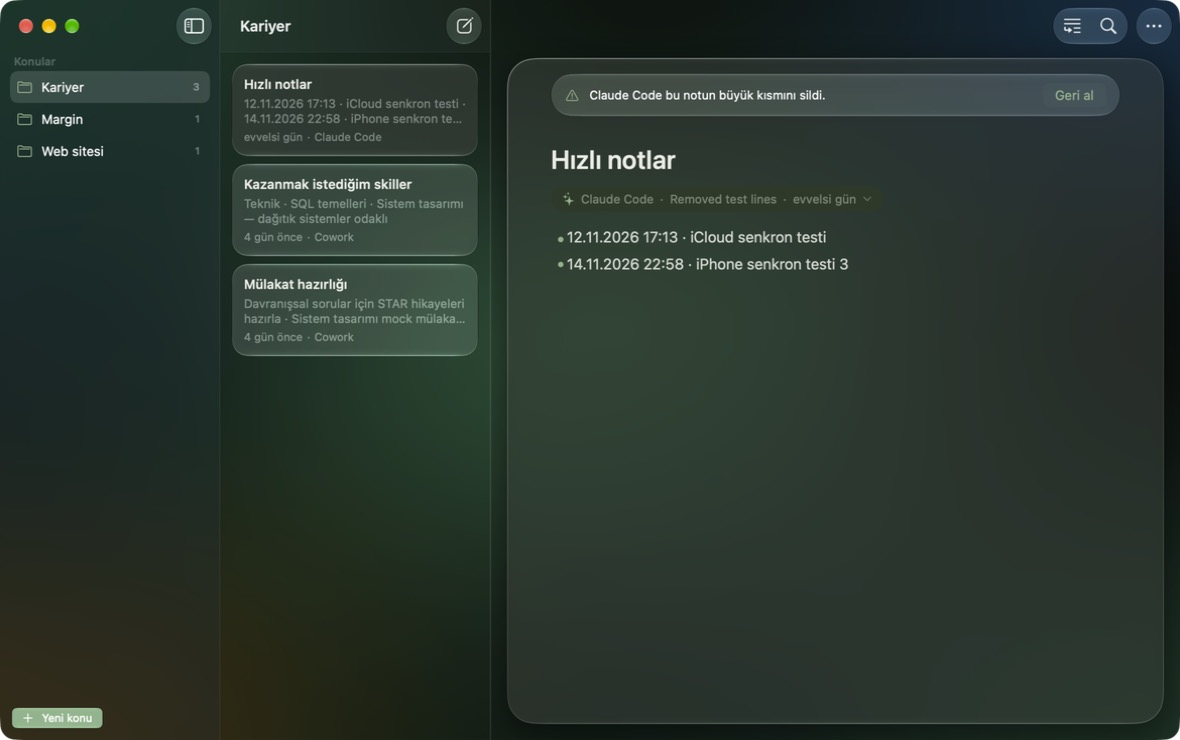
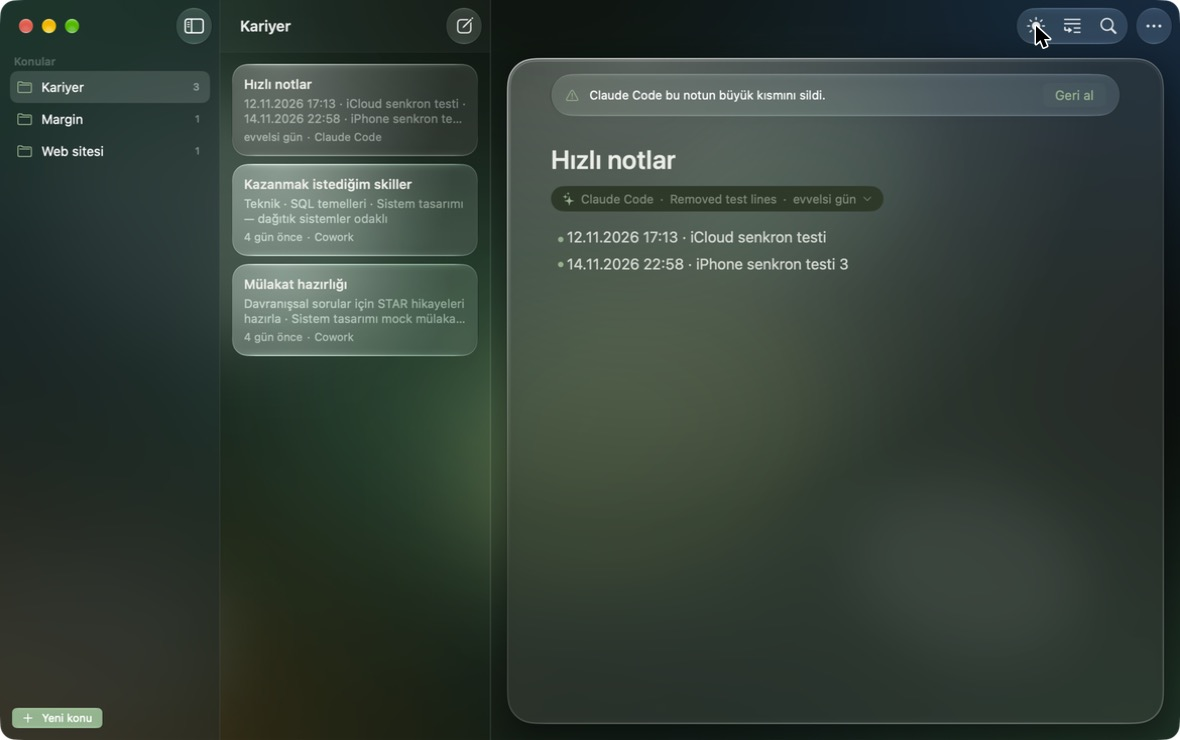
feat: light/dark toggle; stronger glass light (pointer/tilt specular, caustics)
- Sun/moon glass button in the Mac toolbar and iPhone top bar
- Specular sheen under content and a light-following rim on every glass panel;
  follows the pointer on Mac and device tilt on iPhone (static with Reduce Motion)
- Drifting caustic light spots on the backdrop so glass edges visibly refract
- Fix: window stays clear so the opaque ambient backdrop is visible when transparency is off

Changed region(s): [[0.3966, 0.0622, 0.8542, 0.7149], [0.1831, 0.0622, 0.3356, 0.4973], [0.8542, 0.0, 0.9153, 0.0622]]

diff --git a/App/Shared/LightEffects.swift b/App/Shared/LightEffects.swift
@@ -1,0 +1,138 @@
+import SwiftUI
+#if os(iOS)
+import CoreMotion
+#endif
+
+/// Where the "light" sits for glass highlights. On iPhone it follows device tilt; on Mac each panel
+/// follows the pointer while hovered and rests at the top-left otherwise.
+@MainActor @Observable
+final class LightSource {
+    static let shared = LightSource()
+    /// Unit point of the light in panel space (0,0 top-left … 1,1 bottom-right).
+    var point = UnitPoint(x: 0.2, y: 0.0)
+
+    #if os(iOS)
+    private let motion = CMMotionManager()
+    func startTilt() {
+        guard motion.isDeviceMotionAvailable, !motion.isDeviceMotionActive else { return }
+        motion.deviceMotionUpdateInterval = 1 / 30
+        motion.startDeviceMotionUpdates(to: .main) { [weak self] data, _ in
+            guard let g = data?.gravity else { return }
+            // Tilting the phone moves the highlight across the glass.
+            let x = min(max(0.5 + g.x * 0.9, -0.2), 1.2)
+            let y = min(max(0.15 + (g.y + 0.6) * 0.9, -0.2), 1.2)
+            MainActor.assumeIsolated { self?.point = UnitPoint(x: x, y: y) }
+        }
+    }
+    #endif
+}
+
+/// Light position for a panel: pointer while hovered (Mac), else the shared light (tilt on iPhone).
+@MainActor private enum LightPoint {
+    static func resolve(hover: UnitPoint?, reduceMotion: Bool) -> UnitPoint {
+        reduceMotion ? UnitPoint(x: 0.2, y: 0) : (hover ?? LightSource.shared.point)
+    }
+}
+
+/// Broad sheen where light hits the glass; sits under the content.
+struct SpecularSheen<S: InsettableShape>: View {
+    let shape: S
+    var hover: UnitPoint?
+    @Environment(\.colorScheme) private var scheme
+    @Environment(\.accessibilityReduceMotion) private var reduceMotion
+
+    var body: some View {
+        GeometryReader { geo in
+            let p = LightPoint.resolve(hover: hover, reduceMotion: reduceMotion)
+            let dark = scheme == .dark
+            shape.fill(
+                RadialGradient(
+                    colors: [.white.opacity(dark ? 0.20 : 0.65), .white.opacity(0)],
+                    center: p, startRadius: 0, endRadius: max(geo.size.width, geo.size.height) * 0.7)
+            )
+            .blendMode(dark ? .plusLighter : .softLight)
+            .animation(.spring(duration: 0.5), value: hover)
+        }
+        .allowsHitTesting(false)
+    }
+}
+
+/// Bright rim nearest the light plus a thin inner caustic; drawn on top, but only at the edges.
+struct SpecularRim<S: InsettableShape>: View {
+    let shape: S
+    var hover: UnitPoint?
+    @Environment(\.colorScheme) private var scheme
+    @Environment(\.accessibilityReduceMotion) private var reduceMotion
+
+    var body: some View {
+        let p = LightPoint.resolve(hover: hover, reduceMotion: reduceMotion)
+        let opposite = UnitPoint(x: 1 - p.x, y: 1 - p.y)
+        let dark = scheme == .dark
+        ZStack {
+            shape.strokeBorder(
+                LinearGradient(colors: [.white.opacity(dark ? 0.6 : 1), .white.opacity(0.06), .white.opacity(dark ? 0.2 : 0.45)],
+                               startPoint: p, endPoint: opposite),
+                lineWidth: 1.3)
+            shape.inset(by: 2.5).strokeBorder(
+                LinearGradient(colors: [.white.opacity(dark ? 0.28 : 0.6), .clear], startPoint: p, endPoint: .center),
+                lineWidth: 0.8)
+        }
+        .animation(.spring(duration: 0.5), value: hover)
+        .allowsHitTesting(false)
+    }
+}
+
+/// Soft drifting light spots on the backdrop, so glass edges have something to bend.
+struct Caustics: View {
+    @Environment(\.colorScheme) private var scheme
+    @Environment(\.accessibilityReduceMotion) private var reduceMotion
+
+    var body: some View {
+        TimelineView(.animation(minimumInterval: 1 / 20, paused: reduceMotion)) { ctx in
+            let t = reduceMotion ? 0 : ctx.date.timeIntervalSinceReferenceDate
+            GeometryReader { geo in
+                let w = geo.size.width, h = geo.size.height
+                let dark = scheme == .dark
+                let spots: [(Double, Double, Double, Double, Color)] = [
+                    (0.18, 0.22, 0.30, 0.11, .white),
+                    (0.72, 0.18, 0.22, 0.07, dark ? Color(red: 0.55, green: 0.8, blue: 0.6) : .white),
+                    (0.55, 0.62, 0.34, 0.05, dark ? Color(red: 0.9, green: 0.7, blue: 0.35) : Color(red: 1, green: 0.93, blue: 0.75)),
+                    (0.12, 0.82, 0.26, 0.09, dark ? Color(red: 0.4, green: 0.65, blue: 0.85) : .white),
+                    (0.88, 0.78, 0.20, 0.06, .white),
+                ]
+                ForEach(spots.indices, id: \.self) { i in
+                    let s = spots[i]
+                    let x = (s.0 + sin(t * s.3 + Double(i) * 1.7) * 0.08) * w
+                    let y = (s.1 + cos(t * s.3 * 0.8 + Double(i)) * 0.07) * h
+                    let size = s.2 * max(w, h) * (dark ? 1 : 0.7)
+                    Ellipse()
+                        .fill(s.4.opacity(dark ? 0.16 : 0.32))
+                        .frame(width: size, height: size * 0.7)
+                        .rotationEffect(.degrees(sin(t * 0.05 + Double(i)) * 25))
+                        .position(x: x, y: y)
+                        .blur(radius: size * 0.12)
+                }
+            }
+        }
+        .blendMode(scheme == .dark ? .plusLighter : .normal)
+        .allowsHitTesting(false)
+    }
+}
+
+/// Sun / moon glass button that flips between light and dark (Settings still offers "Match system").
+struct AppearanceToggle: View {
+    @AppStorage("appearance") private var appearance: AppearanceChoice = .system
+    @Environment(\.colorScheme) private var scheme
+
+    var body: some View {
+        Button {
+            appearance = scheme == .dark ? .light : .dark
+            Haptics.select()
+        } label: {
+            Label(scheme == .dark ? "Light Mode" : "Dark Mode",
+                  systemImage: scheme == .dark ? "sun.max.fill" : "moon.fill")
+                .contentTransition(.symbolEffect(.replace.downUp))
+        }
+        .help(scheme == .dark ? "Switch to light mode" : "Switch to dark mode")
+    }
+}

diff --git a/App/Shared/AmbientBackground.swift b/App/Shared/AmbientBackground.swift
@@ -15,6 +15,7 @@ struct AmbientBackground: View {
                 let t = reduceMotion ? 0 : context.date.timeIntervalSinceReferenceDate
                 MeshGradient(width: 3, height: 3, points: points(t), colors: colors)
                     .overlay(scheme == .dark ? Color.black.opacity(0.18) : Color.white.opacity(0.0))
+                    .overlay(Caustics())
             }
         }
     }
@@ -56,24 +57,30 @@ private struct GlassPanel: ViewModifier {
     let tint: Color?
     let interactive: Bool
     @Environment(\.colorScheme) private var scheme
+    @State private var hover: UnitPoint?
+    @State private var size: CGSize = .zero
 
     func body(content: Content) -> some View {
         let shape = RoundedRectangle(cornerRadius: cornerRadius, style: .continuous)
         let base: Glass = clear ? .clear : .regular
         var glass: Glass = tint.map { base.tint($0) } ?? base
         if interactive { glass = glass.interactive() }
+        // Layering (back to front): glass → light fill → sheen → content → rim.
         return content
+            .background(SpecularSheen(shape: shape, hover: hover).clipShape(shape))
             .background(shape.fill(Color(palette: Palette.card).opacity(fill)))
             .glassEffect(glass, in: .rect(cornerRadius: cornerRadius))
-            .overlay(
-                // Specular rim: bright on the top-left edge, fading out, like light catching glass.
-                shape.strokeBorder(
-                    LinearGradient(
-                        colors: [.white.opacity(scheme == .dark ? 0.35 : 0.9), .white.opacity(0.05), .white.opacity(scheme == .dark ? 0.12 : 0.35)],
-                        startPoint: .topLeading, endPoint: .bottomTrailing),
-                    lineWidth: 1)
-                .allowsHitTesting(false)
-            )
+            .overlay(SpecularRim(shape: shape, hover: hover))
+            .onGeometryChange(for: CGSize.self) { $0.size } action: { size = $0 }
+            #if os(macOS)
+            .onContinuousHover { phase in
+                switch phase {
+                case .active(let loc):
+                    hover = UnitPoint(x: loc.x / max(size.width, 1), y: loc.y / max(size.height, 1))
+                case .ended: hover = nil
+                }
+            }
+            #endif
             .shadow(color: .black.opacity(scheme == .dark ? 0.35 : 0.10), radius: 18, x: 0, y: 10)
     }
 }

diff --git a/App/MarginMobile/RootView.swift b/App/MarginMobile/RootView.swift
@@ -20,7 +20,8 @@ struct RootView: View {
                 .navigationTitle("Margin")
                 .searchable(text: $search, prompt: Text("Search all notes"))
                 .toolbar {
-                    ToolbarItem(placement: .topBarTrailing) {
+                    ToolbarItemGroup(placement: .topBarTrailing) {
+                        AppearanceToggle()
                         Button { showSettings = true } label: { Image(systemName: "gearshape") }
                     }
                     // Notes / Craft pattern: search field and a prominent compose button share the bottom bar.

diff --git a/App/Margin/Views/LibraryView.swift b/App/Margin/Views/LibraryView.swift
@@ -53,6 +53,7 @@ struct LibraryView: View {
                 .toolbar {
                     ToolbarSpacer(.flexible, placement: .primaryAction)
                     ToolbarItemGroup(placement: .primaryAction) {
+                        AppearanceToggle()
                         Button { QuickCaptureController.shared.show() } label: { Label("Quick Note", systemImage: "text.append") }
                             .help("Quick note (⌥⌘M)")
                         Button { library.showSearch = true } label: { Label("Search Notes", systemImage: "magnifyingglass") }

diff --git a/App/Margin/Features/WindowTransparency.swift b/App/Margin/Features/WindowTransparency.swift
@@ -41,8 +41,9 @@ struct WindowConfigurator: NSViewRepresentable {
         }
         func apply() {
             guard let window else { return }
-            window.isOpaque = !transparent
-            window.backgroundColor = transparent ? .clear : .windowBackgroundColor
+            // Always clear: the backdrop view (opaque ambient or see-through blur) paints the window.
+            window.isOpaque = false
+            window.backgroundColor = .clear
         }
     }
 }

diff --git a/App/MarginMobile/MarginMobileApp.swift b/App/MarginMobile/MarginMobileApp.swift
@@ -18,6 +18,7 @@ struct MarginMobileApp: App {
                 .overlay { if lock.isLocked { MobileLockView().environment(lock).transition(.opacity) } }
                 .animation(.easeInOut(duration: 0.25), value: lock.isLocked)
                 .onChange(of: phase) { _, new in lock.scenePhaseChanged(new) }
+                .onAppear { LightSource.shared.startTilt() }
         }
     }
 }
